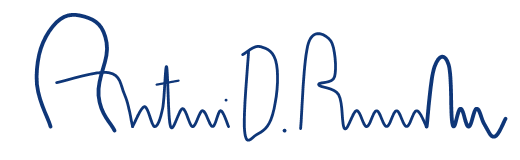
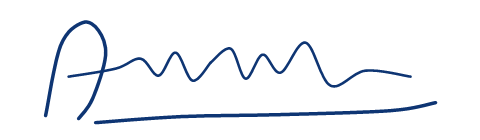
feat(direcional): modelos distintos e independentes de assinaturas para coordenador e instrutor com selecao de estilos e tintas

Changed region(s): [[0.0625, 0.0571, 1.0, 0.8857], [0.0938, 0.8, 0.125, 0.8286]]

diff --git a/criar-certificado-direcional.html b/criar-certificado-direcional.html
@@ -887,9 +887,41 @@
                 </div>
 
                 <div style="font-size:11.5px; color:#94a3b8; line-height:1.4;">
-                    Assinaturas autênticas de <strong>Antonio D. Barros Amorim</strong> (Coordenador Geral) e <strong>Jose Adelson Ferreira de Sousa</strong> (Instrutor) centralizadas exatamente sobre as linhas oficiais.
+                    Modelos distintos de assinaturas para <strong>Antonio D. Barros Amorim</strong> (Coordenador Geral) e <strong>Jose Adelson Ferreira de Sousa</strong> (Instrutor) com caligrafias autênticas e independentes.
                 </div>
 
+                <!-- COR DA TINTA DA CANETA -->
+                <div class="form-group" style="margin-top:6px;">
+                    <label class="form-label">Cor da Tinta das Canetas</label>
+                    <select id="selCorTinta" class="form-control" onchange="applySigModels()">
+                        <option value="azul">🔵 Azul Caneta Esferográfica Bic / Notarial</option>
+                        <option value="preto">⚫ Preto Tinta Documental Nanquim</option>
+                    </select>
+                </div>
+
+                <!-- SELEÇÃO INDIVIDUAL DE MODELOS -->
+                <div class="form-row">
+                    <div class="form-group">
+                        <label class="form-label">Estilo Coord. (Antonio Amorim)</label>
+                        <select id="selSigCoordModel" class="form-control" onchange="applySigModels()">
+                            <option value="mod1">Modelo 1: Rúbrica Executiva Dinâmica</option>
+                            <option value="mod2">Modelo 2: Rúbrica Notarial (Laço Curto)</option>
+                            <option value="mod3">Modelo 3: Assinatura Tradicional com Iniciais</option>
+                            <option value="custom">-- Foto Própria (Upload) --</option>
+                        </select>
+                    </div>
+                    <div class="form-group">
+                        <label class="form-label">Estilo Inst. (Jose Adelson)</label>
+                        <select id="selSigInstModel" class="form-control" onchange="applySigModels()">
+                            <option value="mod1">Modelo 1: Cursivo Fluido ('J' Descendente)</option>
+                            <option value="mod2">Modelo 2: Cursivo Formal Completo</option>
+                            <option value="mod3">Modelo 3: Rúbrica Técnica Notarial</option>
+                            <option value="custom">-- Foto Própria (Upload) --</option>
+                        </select>
+                    </div>
+                </div>
+
+                <!-- UPLOAD PERSONALIZADO -->
                 <div class="form-row">
                     <div class="form-group">
                         <label class="form-label">Subir Foto Assinatura Coord.</label>
@@ -984,12 +1016,12 @@
 
                         <!-- Assinatura Coordenador Geral (Esquerda) -->
                         <div id="prevSigCoordContainer" class="frente-sig-container frente-sig-coord">
-                            <img id="viewSigCoord" src="assets/sig_antonio_amorim.png?v=3" class="sig-img-render" alt="Assinatura Antonio D. Barros Amorim">
+                            <img id="viewSigCoord" src="assets/sig_antonio_mod1.png?v=4" class="sig-img-render" alt="Assinatura Antonio D. Barros Amorim">
                         </div>
 
                         <!-- Assinatura Instrutor / Direcional (Direita) -->
                         <div id="prevSigInstContainer" class="frente-sig-container frente-sig-inst">
-                            <img id="viewSigInst" src="assets/sig_jose_adelson.png?v=3" class="sig-img-render" alt="Assinatura Jose Adelson Ferreira de Sousa">
+                            <img id="viewSigInst" src="assets/sig_jose_mod1.png?v=4" class="sig-img-render" alt="Assinatura Jose Adelson Ferreira de Sousa">
                         </div>
                     </div>
 
@@ -1109,7 +1141,7 @@
             setZoom(0.65);
         }
 
-        // Controle de Assinaturas
+        // Controle e Modelos de Assinaturas
         let customSigCoord = null;
         let customSigInst = null;
         let assinaturasVisiveis = true;
@@ -1122,6 +1154,31 @@
             if (c2) c2.style.display = show ? 'flex' : 'none';
         }
 
+        function applySigModels() {
+            const cor = document.getElementById('selCorTinta') ? document.getElementById('selCorTinta').value : 'azul';
+            const suf = cor === 'preto' ? '_preto' : '';
+
+            const mCoord = document.getElementById('selSigCoordModel') ? document.getElementById('selSigCoordModel').value : 'mod1';
+            const mInst = document.getElementById('selSigInstModel') ? document.getElementById('selSigInstModel').value : 'mod1';
+
+            const imgC = document.getElementById('viewSigCoord');
+            const imgI = document.getElementById('viewSigInst');
+
+            if (mCoord !== 'custom') {
+                customSigCoord = null;
+                if (imgC) imgC.src = `assets/sig_antonio_${mCoord}${suf}.png?v=4`;
+            } else if (customSigCoord && imgC) {
+                imgC.src = customSigCoord;
+            }
+
+            if (mInst !== 'custom') {
+                customSigInst = null;
+                if (imgI) imgI.src = `assets/sig_jose_${mInst}${suf}.png?v=4`;
+            } else if (customSigInst && imgI) {
+                imgI.src = customSigInst;
+            }
+        }
+
         function uploadCustomSig(event, role) {
             const file = event.target.files && event.target.files[0];
             if (!file) return;
@@ -1129,10 +1186,14 @@
             reader.onload = function(e) {
                 if (role === 'coord') {
                     customSigCoord = e.target.result;
+                    const sel = document.getElementById('selSigCoordModel');
+                    if (sel) sel.value = 'custom';
                     const img = document.getElementById('viewSigCoord');
                     if (img) img.src = customSigCoord;
                 } else {
                     customSigInst = e.target.result;
+                    const sel = document.getElementById('selSigInstModel');
+                    if (sel) sel.value = 'custom';
                     const img = document.getElementById('viewSigInst');
                     if (img) img.src = customSigInst;
                 }
@@ -1143,14 +1204,14 @@
         function resetDefaultSigs() {
             customSigCoord = null;
             customSigInst = null;
-            const imgC = document.getElementById('viewSigCoord');
-            const imgI = document.getElementById('viewSigInst');
-            if (imgC) imgC.src = 'assets/sig_antonio_amorim.png?v=3';
-            if (imgI) imgI.src = 'assets/sig_jose_adelson.png?v=3';
+            if (document.getElementById('selCorTinta')) document.getElementById('selCorTinta').value = 'azul';
+            if (document.getElementById('selSigCoordModel')) document.getElementById('selSigCoordModel').value = 'mod1';
+            if (document.getElementById('selSigInstModel')) document.getElementById('selSigInstModel').value = 'mod1';
             const f1 = document.getElementById('inpUploadSigCoord');
             const f2 = document.getElementById('inpUploadSigInst');
             if (f1) f1.value = '';
             if (f2) f2.value = '';
+            applySigModels();
         }
 
         function updateCertificado() {
